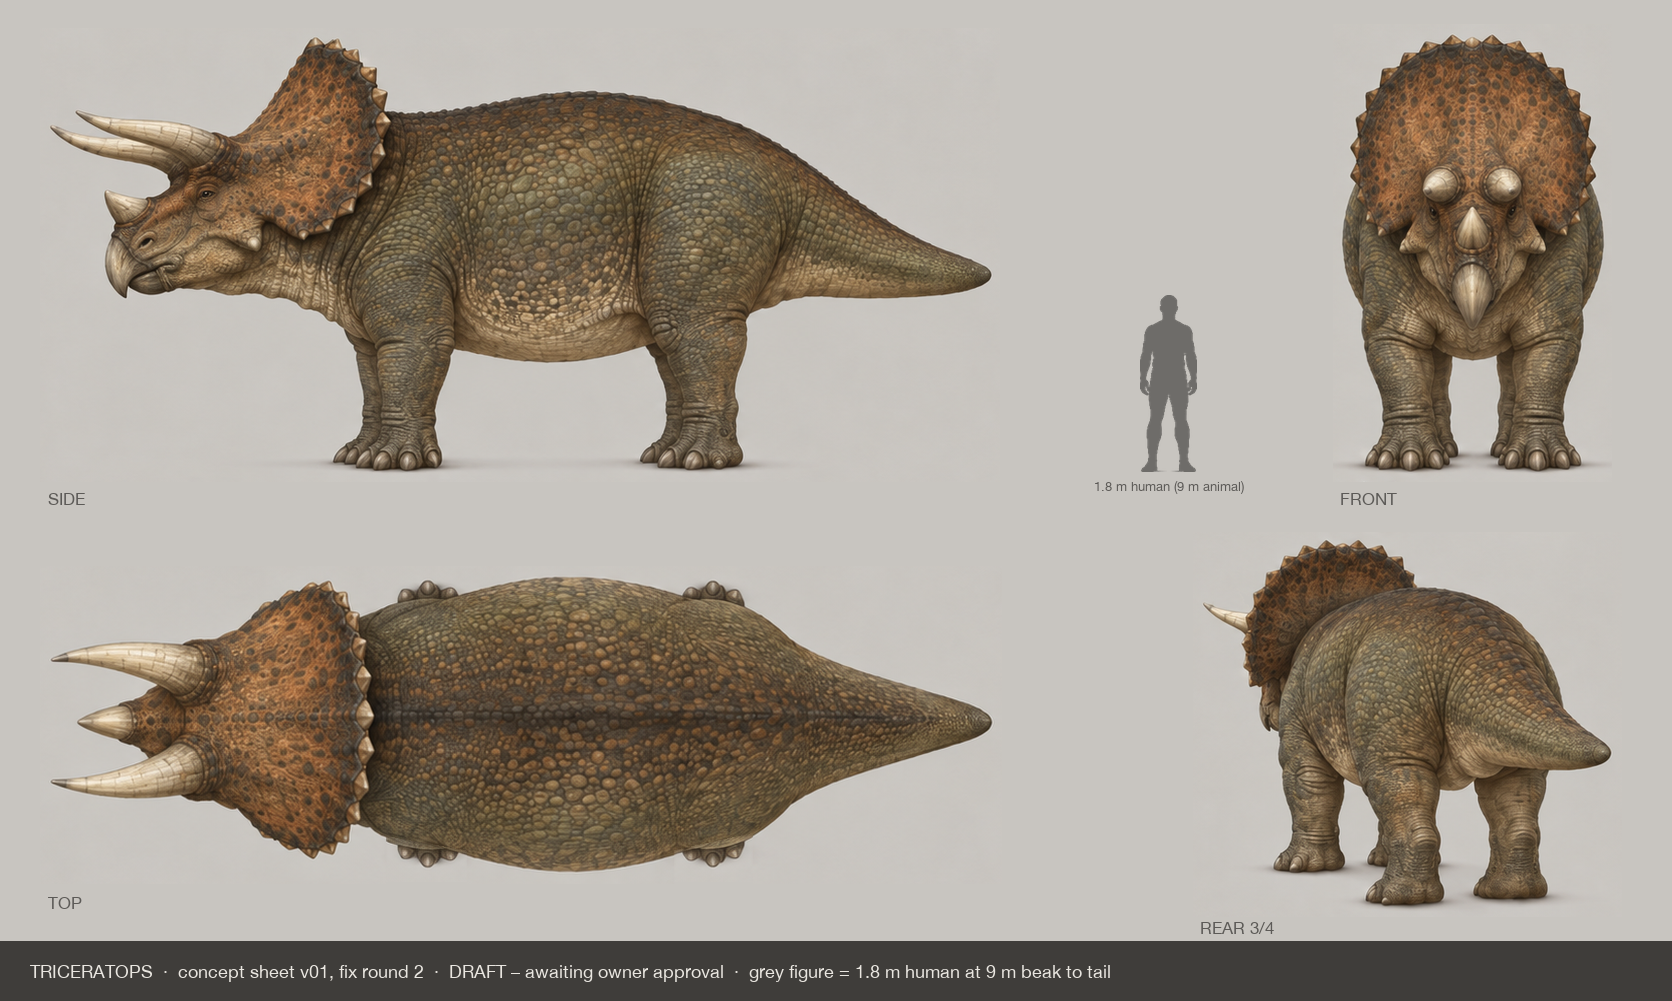
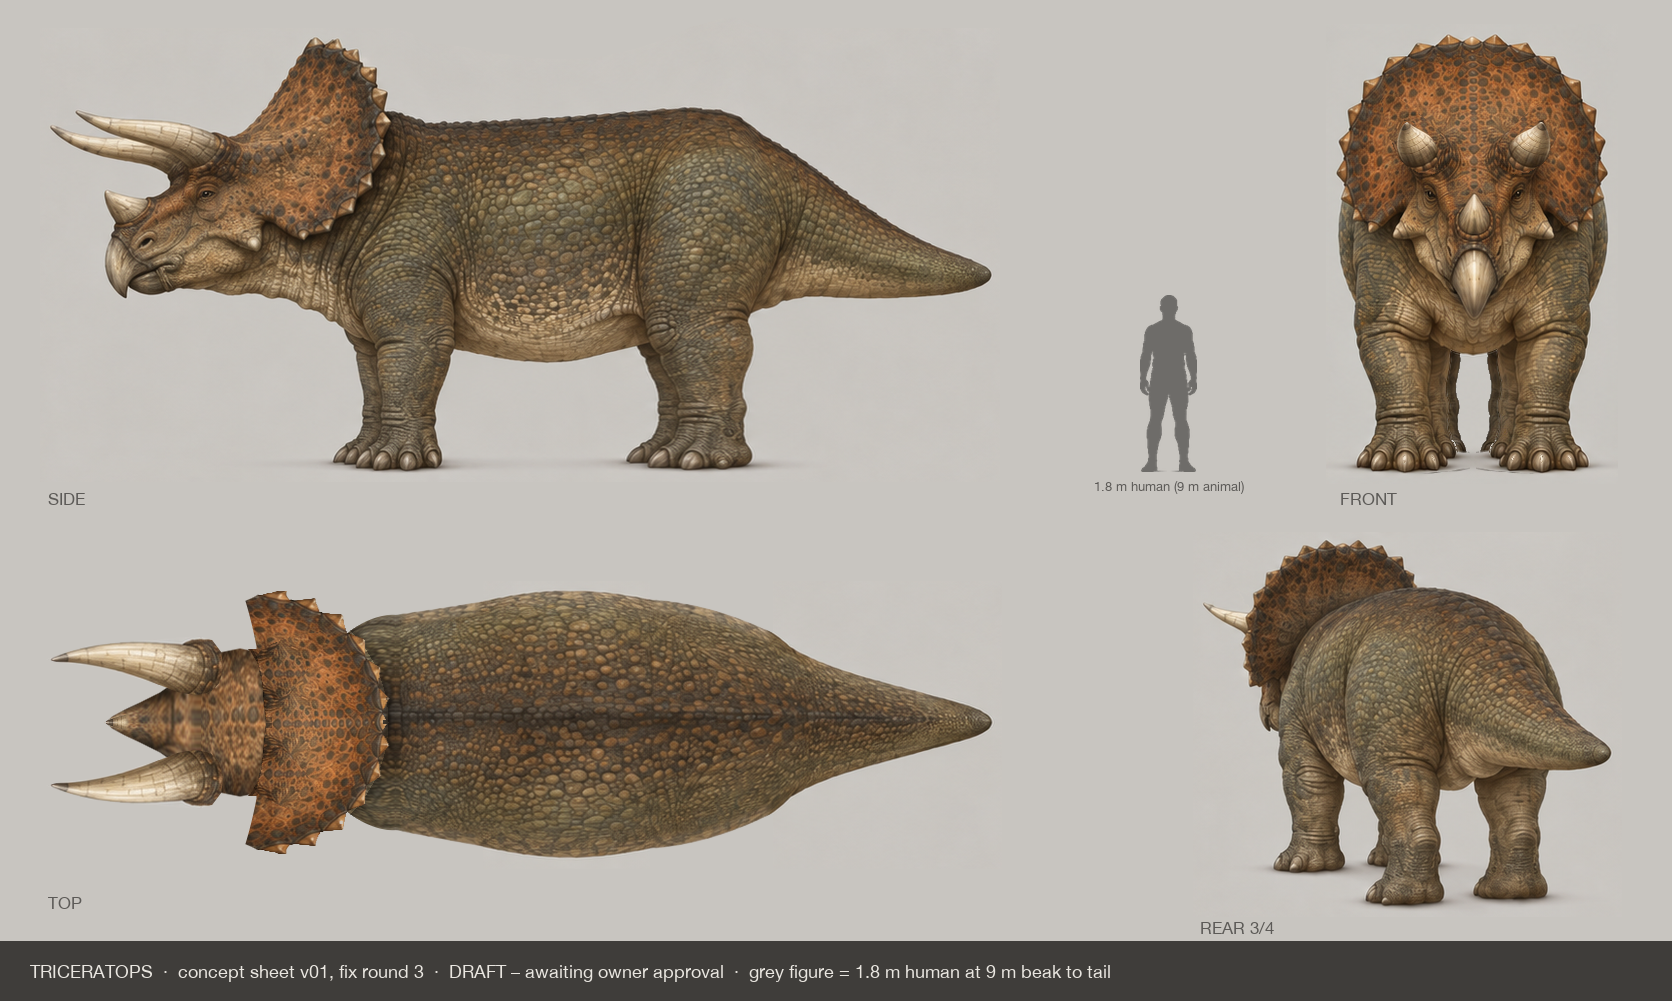
TRIKE: Triceratops concept sheet v01 fix round 3 (DRAFT)
Paleo-art review round 3 (front and top heads must describe the side
view's head, heavier hind legs, one width and foot-track rule):
- Front: brow horns are forward-pointing foreshortened cones, bases
  112 px apart outside the eyes, tips ~y 122; eye, nose-horn and beak
  heights match the side view; hind legs show 10 px inside the fore
  track. Base image from one Codex CLI image edit (front view only).
- Side: hind leg 86 vs 74 px, hind foot 124 vs 108 px; back peaks over
  the hips (x~687) with the shoulders 15 px lower; hip height unchanged.
- Top: body narrowed to the front's width (267 px), toe nubs removed,
  frill re-projected from the front view as a crescent band x~245-390
  with rim points on the back edge only, skull roof and snout to the
  beak tip with a short nasal horn; brow horns kept.
Review copy rebuilt (one 1.8 m human at 9 m). Still DRAFT, awaiting
owner approval. real_length_m was already 9.0 (round 2).

0 credits. No Tripo, Meshy or Higgsfield.

Changed region(s): [[0.0311, 0.5574, 0.5909, 0.8671], [0.7775, 0.031, 0.9641, 0.4955], [0.2488, 0.0929, 0.4665, 0.4645]]

diff --git a/assets/concept-art/INDEX.md b/assets/concept-art/INDEX.md
@@ -12,7 +12,7 @@ Approval is version-specific. `Milan review anchor` records the authenticated me
 | Deinonychus | `creatures/deinonychus/concept-sheet-v01.png` | `DRAFT` | - | Not started | 0 | None | Not started | Pending |
 | Velociraptor | `creatures/velociraptor/concept-sheet-v01.png` | `DRAFT` | - | Not started | 0 | None | Not started | Pending |
 | Utahraptor | `creatures/utahraptor/concept-sheet-v01.png` | `DRAFT` | - | Not started | 0 | None | Not started | Pending |
-| Triceratops | `creatures/triceratops/concept-sheet-v01.png` (labelled review copy `concept-sheet-v01-review.png`; fix rounds 1 and 2 replaced the draft in place, 2026-10-21) | `DRAFT` | - | Not started; Tripo multiview only after approval. Sheet: ChatGPT web image generation on the owner's Plus plan, text-only prompts (no reference uploads). First draft: conversation `6ad860ec-6718-83ea-8edd-dfb73f4409a2`. Fix round 1: conversation `6ad8695b-5eb8-83ea-843f-a865ce7db0d2` (one generation + three edits), then local post-processing. Fix round 2 (paleo-art review: front brow horns, true top view, square stance): same conversation, one edit of the round-1 base image opened with ChatGPT's own image-editor Edit button (square standing pose in all views, front brow horns as end-on foreshortened cones, straight-down symmetric top view); local post-processing: ghost smears beside two horn tips removed, background set to 200,197,192, views re-laid on the 1672x941 canvas at one scale with the top view scaled x1.127 to the side view's length, the two near-side top-view foot nubs replaced by mirror images of the far-side nubs (both sides now show the same toes); round 1's top-view horn bend dropped. Review copy: one 1.8 m human at 9 m beak to tail (`triceratops.json` `real_length_m` now 9.0, per the roster PRD) | 0 | None | Not started | Pending |
+| Triceratops | `creatures/triceratops/concept-sheet-v01.png` (labelled review copy `concept-sheet-v01-review.png`; fix rounds 1, 2 and 3 replaced the draft in place, 2026-10-21) | `DRAFT` | - | Not started; Tripo multiview only after approval. Sheet: ChatGPT web image generation on the owner's Plus plan, text-only prompts (no reference uploads). First draft: conversation `6ad860ec-6718-83ea-8edd-dfb73f4409a2`. Fix round 1: conversation `6ad8695b-5eb8-83ea-843f-a865ce7db0d2` (one generation + three edits), then local post-processing. Fix round 2 (paleo-art review: front brow horns, true top view, square stance): same conversation, one edit of the round-1 base image opened with ChatGPT's own image-editor Edit button (square standing pose in all views, front brow horns as end-on foreshortened cones, straight-down symmetric top view); local post-processing: ghost smears beside two horn tips removed, background set to 200,197,192, views re-laid on the 1672x941 canvas at one scale with the top view scaled x1.127 to the side view's length, the two near-side top-view foot nubs replaced by mirror images of the far-side nubs (both sides now show the same toes); round 1's top-view horn bend dropped. Fix round 3 (paleo-art review: front and top heads must match the side view, heavier hind legs, one width and foot-track rule): front view taken from one Codex CLI image edit (owner's plan, no credits; prompt plus the round-2 sheet as reference, only its front view used), scaled to the old front's height; locally its brow horns were redrawn as forward-pointing foreshortened cones (bases 112 px apart, outside the eyes, tips ~y 122), the face lifted to the side view's heights (eye 192, nose-horn tip ~195, beak tip ~296) and the hind legs added 10 px inside the fore track. Side view, local warps: hind leg and foot widened 1.22x (86 vs 74 px at y 400, foot 124 vs 108 px), shoulders lowered so the back peaks over the hips (x~687) 15 px above the shoulders. Top view rebuilt locally from sheet pixels: body narrowed 0.905x to the front's width (267 px), toe nubs removed (toes sit inside the barrel in the front view), frill re-projected from the front view as a crescent band x~245-390 with rim points on its back edge only, skull roof and a snout to the beak tip (x~107) with a short nasal horn, brow horns kept. Two Codex attempts at a new top view were rejected (long third horn; disc frill). Review copy: one 1.8 m human at 9 m beak to tail (`triceratops.json` `real_length_m` 9.0 since round 2, per the roster PRD) | 0 | None | Not started | Pending |
 
 ### Stegosaurus clip matrix
 
